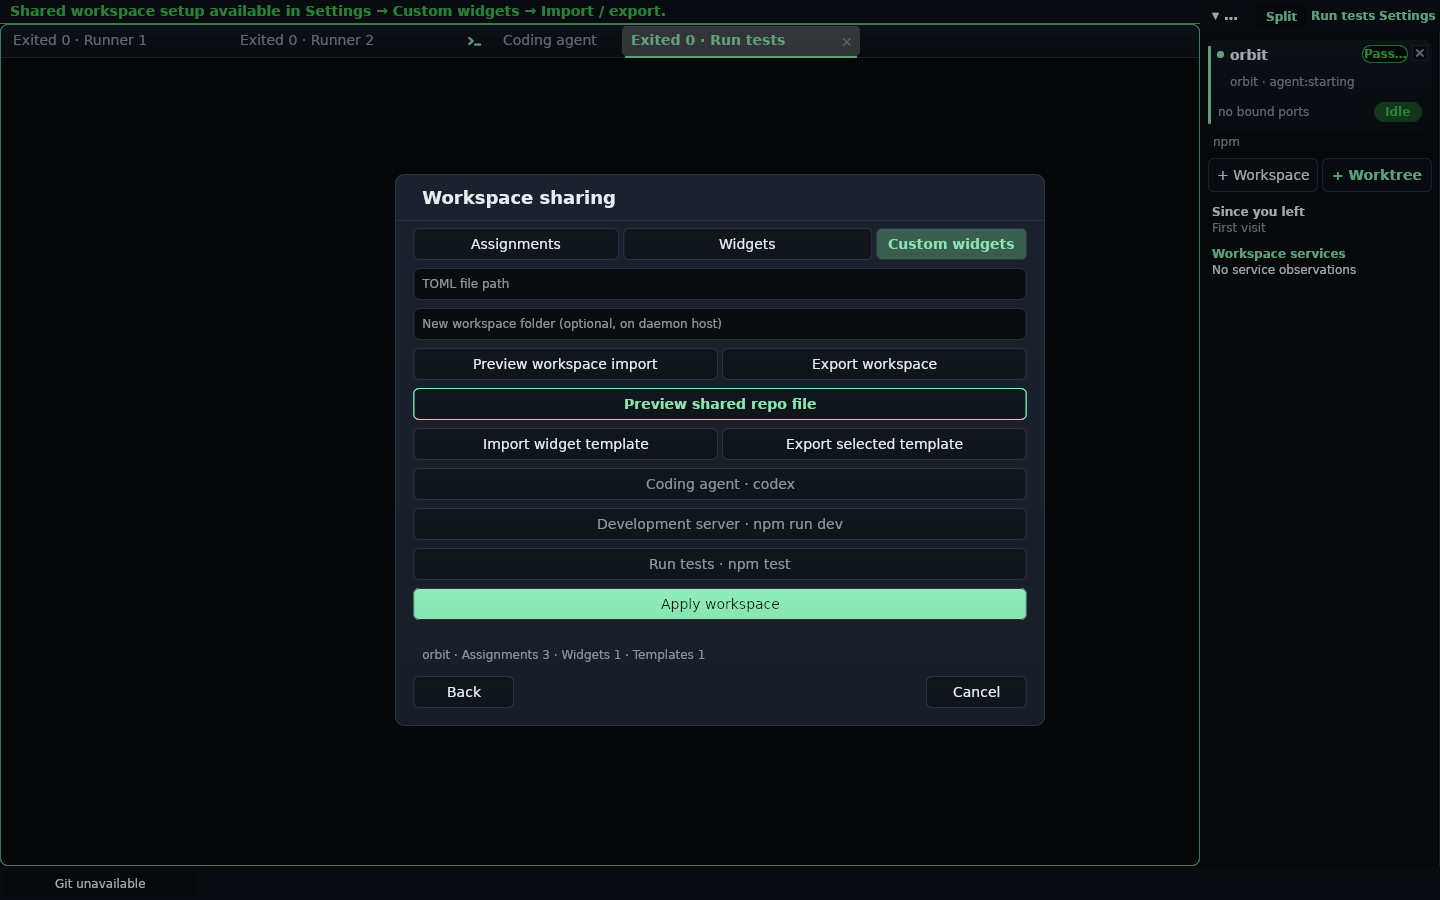
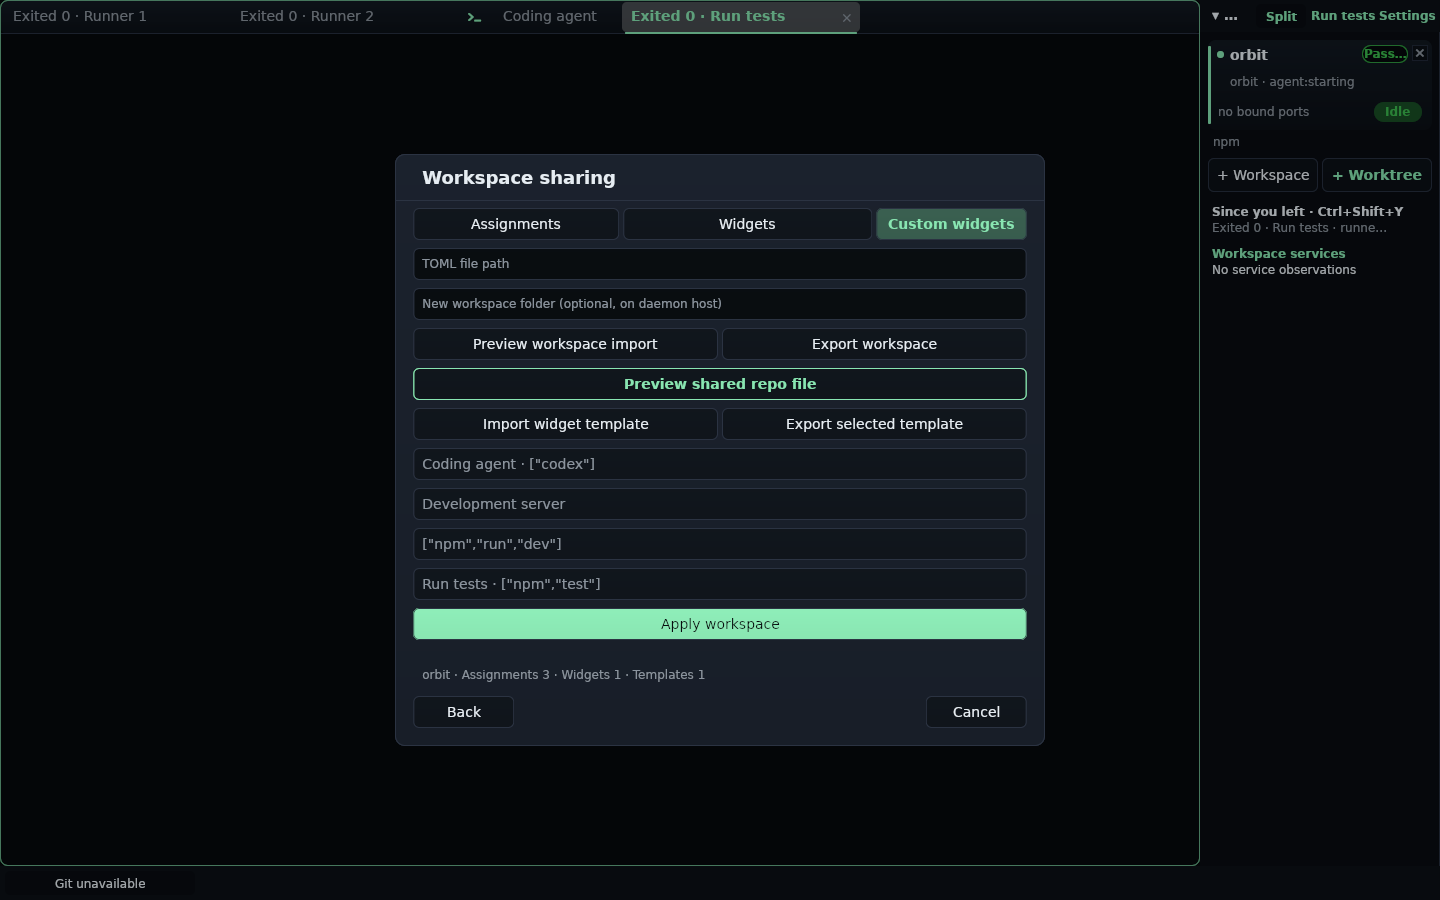
fix: polish import review for release
Keep short command arguments together in import previews, update their native README captures, and use a reply guard that passes strict Clippy on current runners.

Changed region(s): [[0.25, 0.1556, 0.75, 0.84], [0.0, 0.0, 0.8125, 0.0622], [0.8438, 0.2178, 0.9688, 0.28]]

diff --git a/crates/daedalus-ui/src/workspace_sharing.rs b/crates/daedalus-ui/src/workspace_sharing.rs
@@ -110,18 +110,17 @@ impl DaedalusApp {
         response: Result<ResponsePayload, String>,
     ) {
         let settings = self.state.settings.open && self.state.settings.widget_workspace == Some(id);
-        match operation {
+        let applies = match operation {
             WorkbenchOperation::WidgetPreview(token) => {
-                if !settings || !self.state.settings.custom.finish_widget_test(token) {
-                    return;
-                }
+                settings && self.state.settings.custom.finish_widget_test(token)
             }
             WorkbenchOperation::ImportPreview(token) => {
-                if !settings || !self.state.settings.custom.finish_import_review(token) {
-                    return;
-                }
+                settings && self.state.settings.custom.finish_import_review(token)
             }
-            _ => {}
+            _ => true,
+        };
+        if !applies {
+            return;
         }
         let previous: Vec<_> = if settings {
             self.state.settings.control_order().collect()

diff --git a/crates/daedalus-ui/src/widget_editor.rs b/crates/daedalus-ui/src/widget_editor.rs
@@ -93,8 +93,16 @@ impl WidgetEditor {
     pub fn show_import_review(&mut self, result: WidgetResult) {
         self.import_lines.clear();
         for (label, value) in &result.details {
-            let row = format!("{label} · {value}");
-            self.import_lines.extend(wrap_review_row(&row));
+            let rows = wrap_review_row(&format!("{label} · {value}"));
+            if rows.len() > 1 {
+                let value_rows = wrap_review_row(value);
+                if value_rows.len() == 1 {
+                    self.import_lines.extend(wrap_review_row(label));
+                    self.import_lines.extend(value_rows);
+                    continue;
+                }
+            }
+            self.import_lines.extend(rows);
         }
         self.preview = Some(result);
         self.detail_page = 0;

diff --git a/scripts/tests/workbench.py b/scripts/tests/workbench.py
@@ -337,7 +337,8 @@ def exercise(binaries, scratch, screen):
                 ui.click(875, 400)  # Import / export
                 ui.wait_dialog((395, 254))
                 ui.click(720, 482)  # Preview the shared repo file
-                ui.wait_dialog((395, 174))
+                # Review rows can wrap, which changes the final dialog height.
+                ui.wait_dialog((395, 254), visible=False)
                 capture(ui, "workspace-import.png")
             ui.key("Escape")
             ui.close(client)
